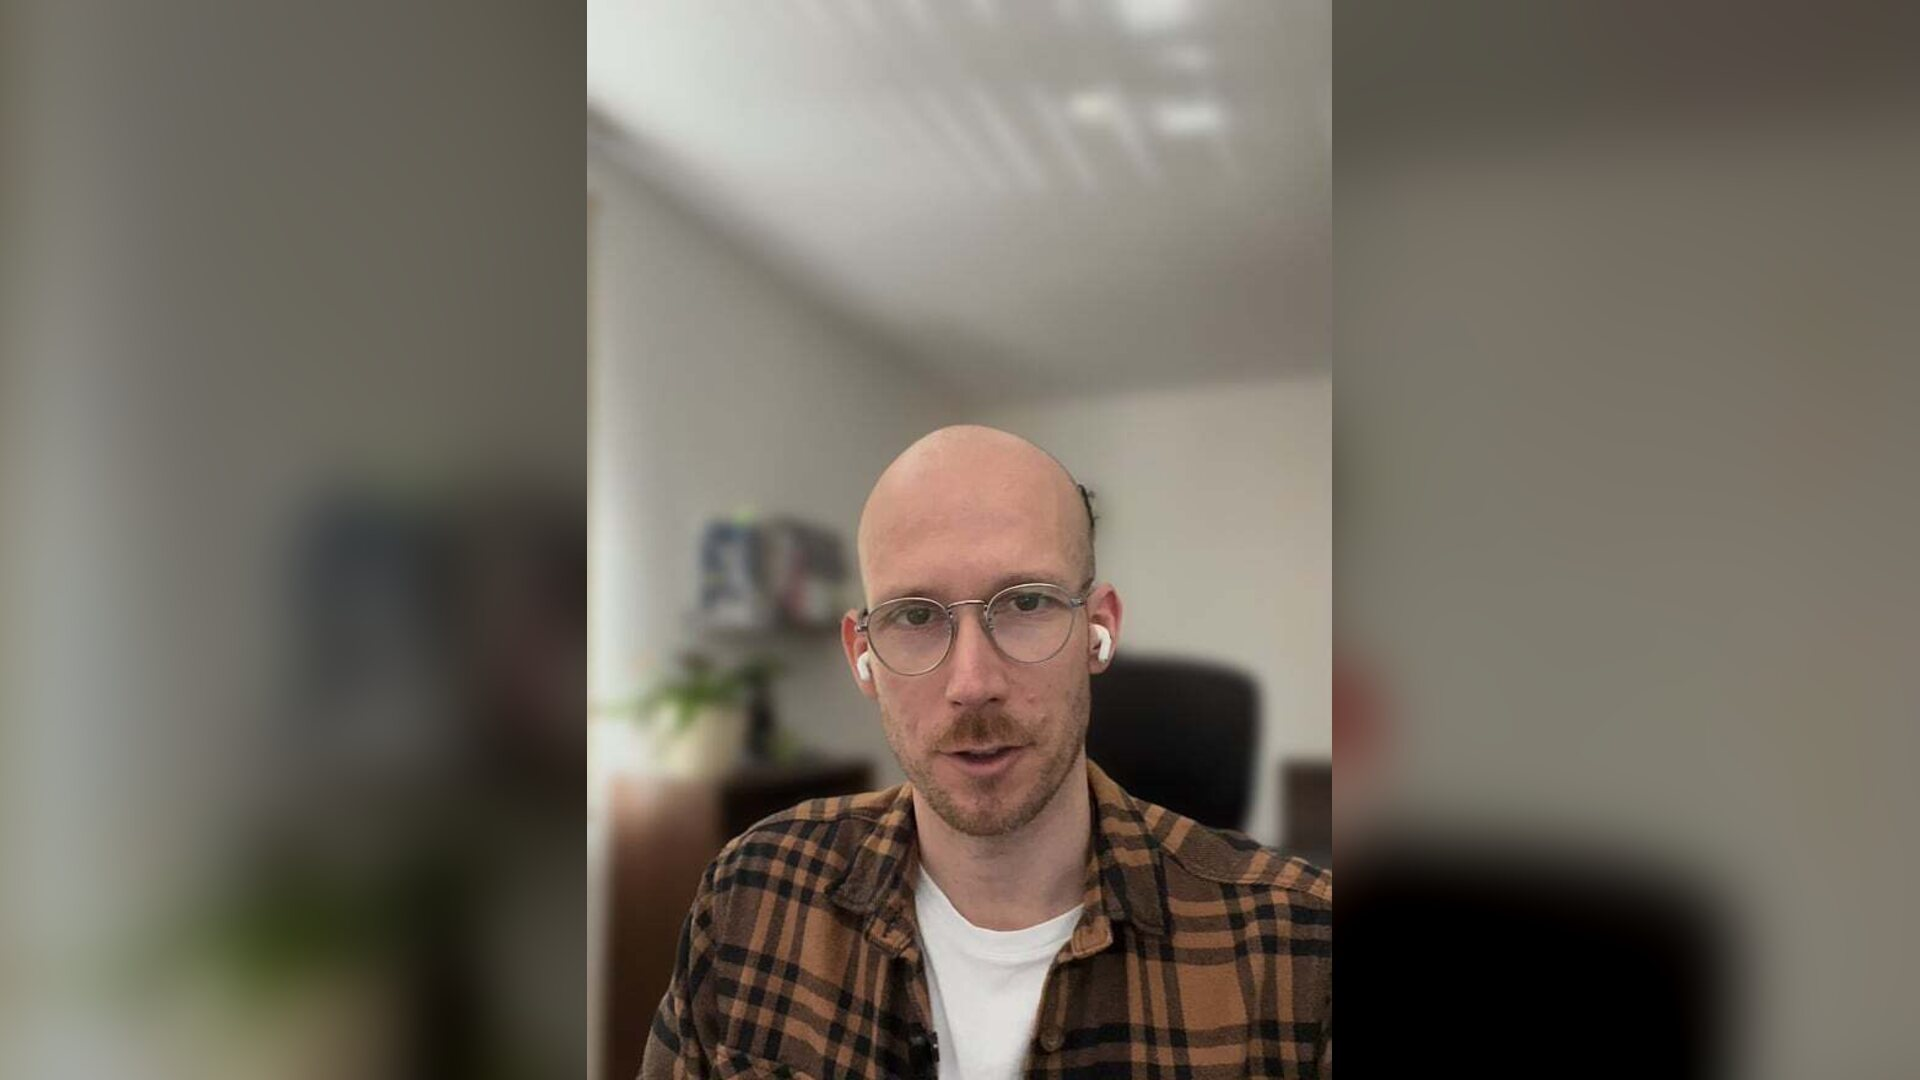
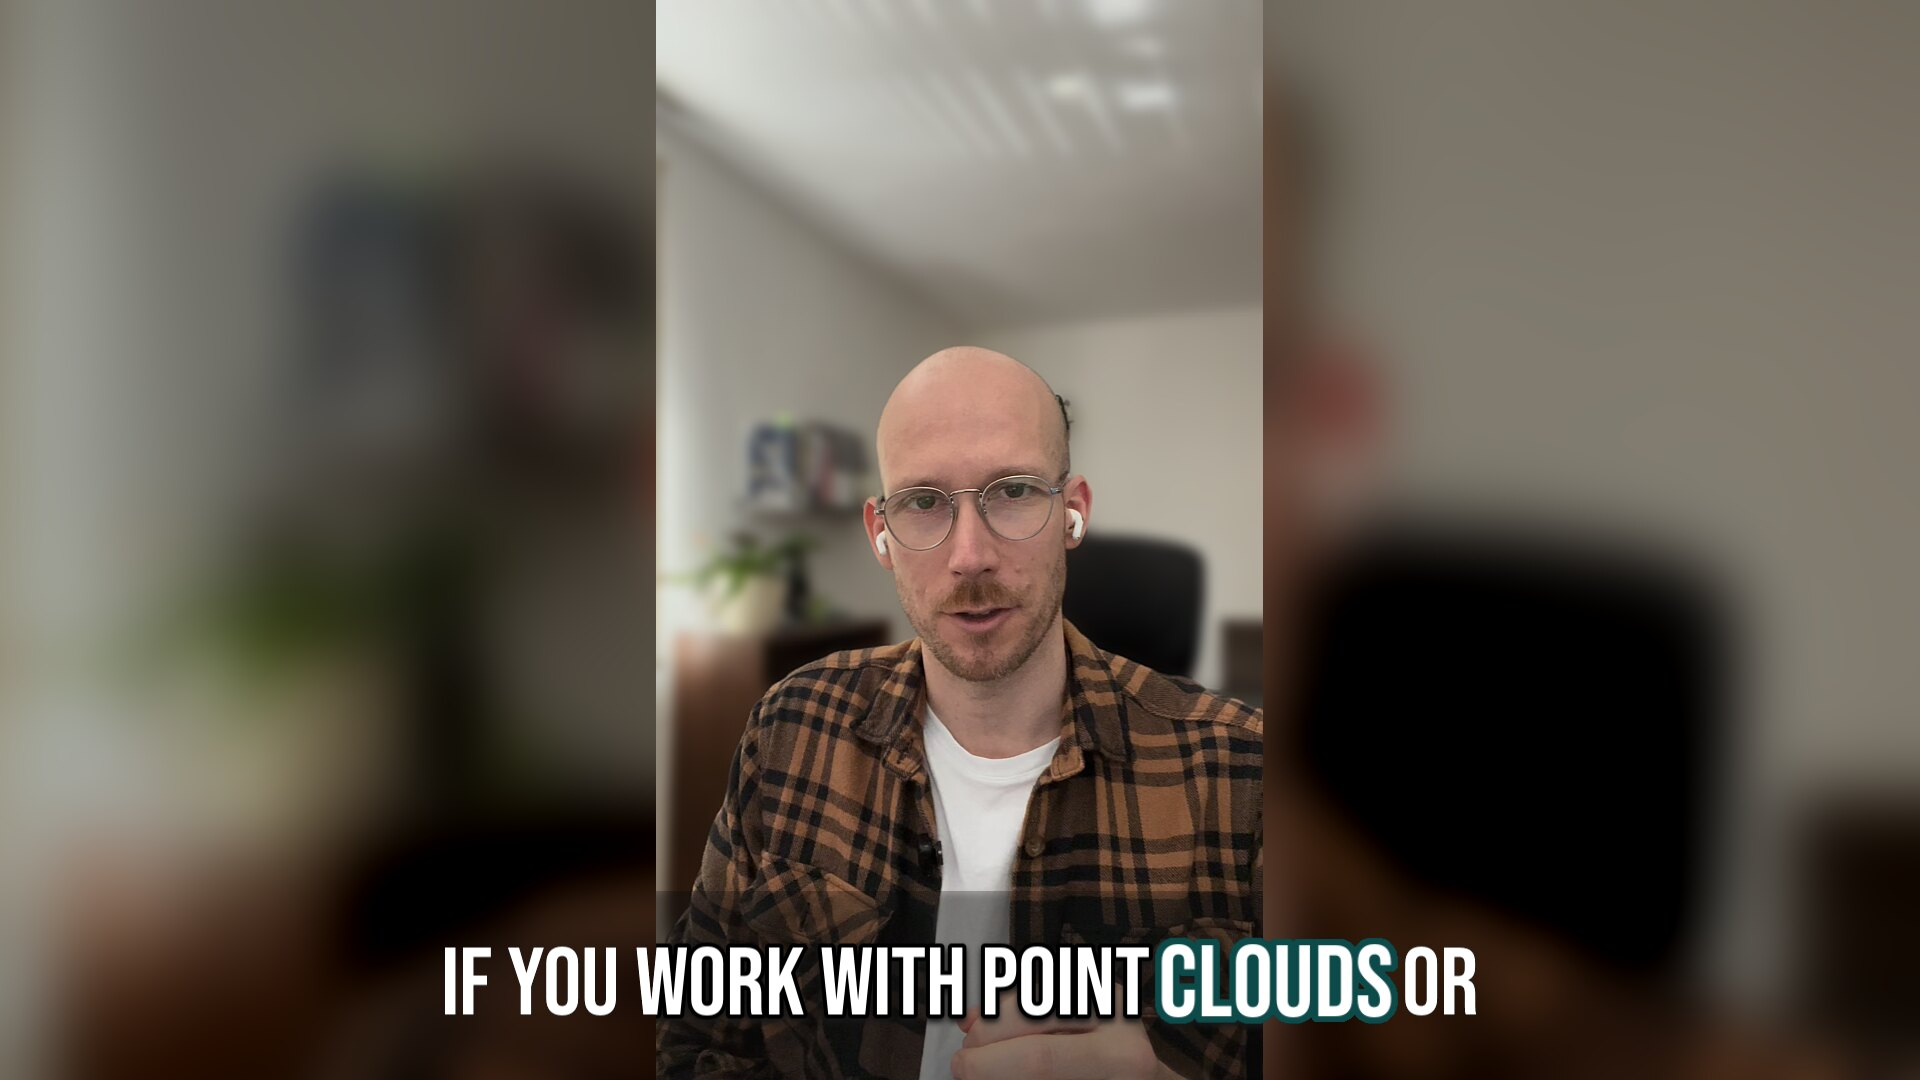
Lift the video band into the first screen and keep the caption in the poster
Tighten hero spacing, merge the two solution paragraphs, and rebuild the poster from the full-quality frame so the burned-in caption survives while the black bars are blurred.

diff --git a/training.html b/training.html
@@ -109,12 +109,13 @@
       <div class="pointer-events-none absolute -top-40 -right-40 w-[620px] h-[620px] rounded-full blur-3xl opacity-30" style="background: radial-gradient(circle, #1FC4C4 0%, transparent 60%);"></div>
       <div class="pointer-events-none absolute -bottom-40 -left-40 w-[520px] h-[520px] rounded-full blur-3xl opacity-20" style="background: radial-gradient(circle, #B8ECEC 0%, transparent 60%);"></div>
 
-      <div class="relative mx-auto max-w-[1400px] px-6 md:px-10 pt-36 md:pt-44 pb-0">
-        <div class="grid lg:grid-cols-12 gap-12 lg:gap-16 items-center">
+      <!-- Spacing is tight on purpose: it pulls the video band up into the first screen. -->
+      <div class="relative mx-auto max-w-[1400px] px-6 md:px-10 pt-32 md:pt-36 pb-0">
+        <div class="grid lg:grid-cols-12 gap-10 lg:gap-14 items-center">
           <!-- Left: the problem, then the solution. The reader should recognize
                themselves in the headline before they learn what is being sold. -->
           <div class="lg:col-span-7 text-center lg:text-left" data-reveal>
-            <div class="eyebrow text-brand-cyan mb-8">For surveying, point cloud and GIS teams</div>
+            <div class="eyebrow text-brand-cyan mb-6">For surveying, point cloud and GIS teams</div>
 
             <h1 class="display-hero text-white text-balance">
               Your best people<br>
@@ -122,23 +123,20 @@
               <span class="font-serif italic font-normal">half the week.</span>
             </h1>
 
-            <p class="mt-10 max-w-2xl mx-auto lg:mx-0 text-aqua/90 text-lg md:text-xl leading-relaxed">
+            <p class="mt-8 max-w-2xl mx-auto lg:mx-0 text-aqua/90 text-lg md:text-xl leading-relaxed">
               Converting, projecting, tiling, classifying, repairing broken metadata.
               The same pipeline for the fortieth time. Those hours either come off your
               margin or crowd out the work you would rather be selling.
             </p>
 
-            <p class="mt-6 max-w-2xl mx-auto lg:mx-0 text-white text-lg md:text-xl leading-relaxed">
+            <p class="mt-5 max-w-2xl mx-auto lg:mx-0 text-white text-lg md:text-xl leading-relaxed">
               AI Agents can do a lot of that now - driving PDAL, GDAL, Python, and the rest of
-              your stack for you. So your team can focus on the hard stuff.
-            </p>
-
-            <p class="mt-6 max-w-2xl mx-auto lg:mx-0 text-white text-lg md:text-xl leading-relaxed">
-              In two half-days I show you and your team how, on your own data, using widely available tools.
+              your stack for you. In two half-days I show you and your team how, on your own
+              data, using widely available tools.
             </p>
 
             <!-- Orienting facts only. Price sits further down, after the agenda. -->
-            <dl class="mt-12 flex flex-wrap justify-center lg:justify-start gap-x-8 gap-y-3 text-sm">
+            <dl class="mt-9 flex flex-wrap justify-center lg:justify-start gap-x-8 gap-y-3 text-sm">
               <div class="flex items-baseline gap-2">
                 <dt class="text-aqua/50">Duration</dt><dd class="text-white font-medium">2 half-days</dd>
               </div>
@@ -196,7 +194,7 @@
 
       <!-- The recording carries the proof, so it sits in the hero rather than beside the
            agenda: a reader arriving from a LinkedIn message hits it before anything is sold. -->
-      <div class="relative mx-auto max-w-[1400px] px-6 md:px-10 mt-16 md:mt-20" data-reveal>
+      <div class="relative mx-auto max-w-[1400px] px-6 md:px-10 mt-10 md:mt-12" data-reveal>
         <div class="relative aspect-video rounded-3xl overflow-hidden bg-navy ring-1 ring-white/10 shadow-[0_40px_120px_-30px_rgba(13,74,74,0.45)]">
           <!-- Vimeo facade: click to load. Vimeo IDs live in js/vimeo.js. -->
           <button id="trainingPlay" class="absolute inset-0 w-full h-full group" aria-label="Load the video from Vimeo and play">
